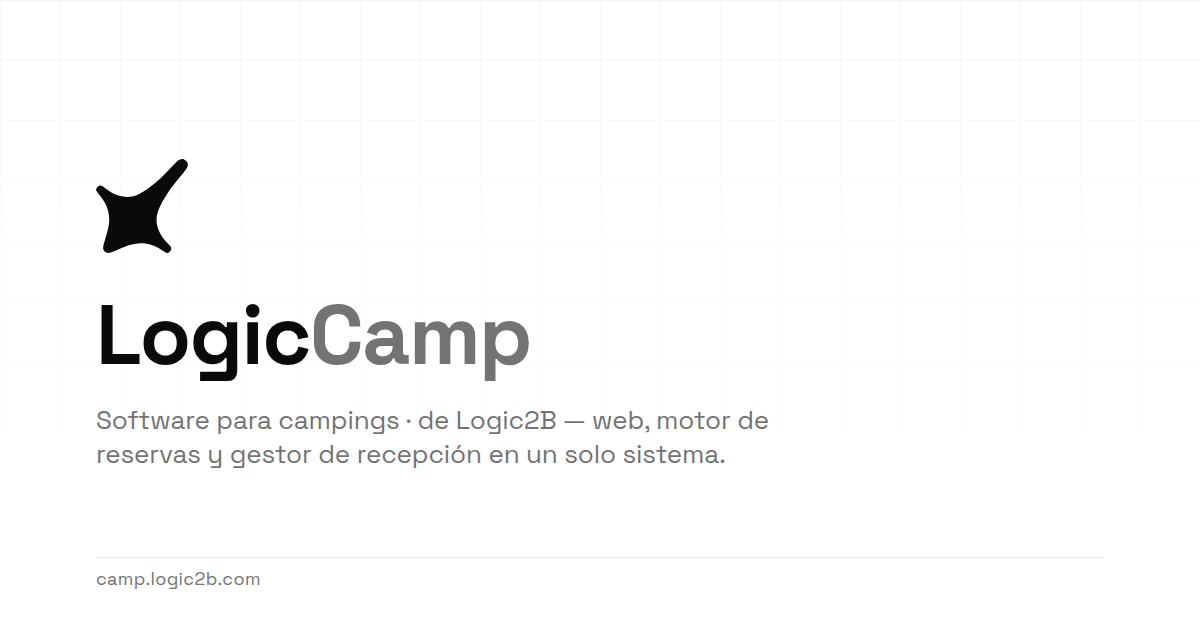
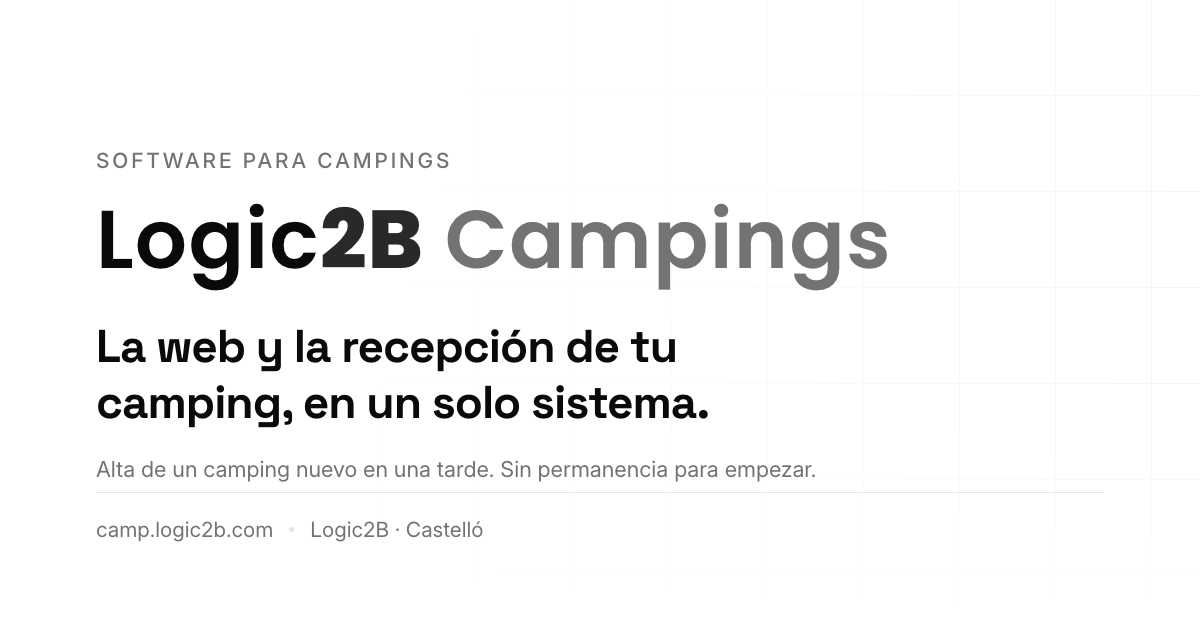
Sesión 61: la landing fuera de la landing — la tarjeta al compartir y lo que lee Google
Objetivo elegido con el criterio de CONTINUA (lo que el cliente ve) sobre el
mandato de marketing de la 60: lo que un prospecto ve de la landing SIN estar
en ella. La OG image seguía diciendo «LogicCamp» con el isotipo — una marca que
desde la 59 no existe en ninguna pantalla: compartir el enlace enseñaba un
producto distinto del que se abre al clicar.

La tarjeta, regenerada y esta vez con generador commiteado. La de C5.2 se
renderizó con un script de sesión que no se guardó, así que rehacerla ha
costado reconstruirlo entero — el coste exacto que la regla de no multiplicar
trabajo existe para evitar. Ahora apps/site/scripts/og.mjs
(pnpm --filter @logic-camp/site og): un cambio de marca es un comando. Dos
tarjetas, una por idioma, con el texto del mismo content/{lang}.json que pinta
la landing.

Los colores NO se copian al generador: se leen del :root de
packages/ui/src/theme.css. Empezaron como literales y era la misma deuda en
pequeño. Prueba de que la lectura es fiel: el PNG sale byte a byte idéntico.
Trampa por el camino: cortar el CSS por indexOf('.dark') corta en un comentario
36 líneas antes del selector y deja fuera medio :root — se corta por
/^\.dark\s*\{/m.

Composición: sin isotipo, el hueco lo ocupa jerarquía real (kicker · wordmark ·
titular del héroe · promesa de alta · pie). La primera versión se rechazó
mirando el PNG: tercio central hueco y la rejilla visible justo en la mitad sin
contenido, que se leía como descuido en vez de como aire.
[…]

diff --git a/docs/BACKLOG.md b/docs/BACKLOG.md
@@ -47,7 +47,7 @@ Ideas y peticiones que NO son de la fase en curso. Aquí, no al código. Formato
 - ~~[B1] Las 2 pantallas que quedan para cerrar la adopción del DS: **Parte** y **Ajustes** (formulario y detalle; Ajustes ya usa `Input`/`Label`/`Switch`, así que le queda poco) — 2026-07-25. **Informes e Inventario hechas en la sesión 58** (9 de 11): en Informes el `Tile` a mano pasa a `Card` y el defecto del titular de dos líneas que hundía su cifra se arregla **reservando la altura de dos líneas de rótulo en todas las tarjetas** (`min-h-[2lh]` en el `CardDescription`) — estructural, no de copy: con i18n el alemán partirá titulares que el español no parte, y la reserva vale para cualquier idioma. En Inventario el encargo decía «tiles → Card» pero los chips **ya eran** `Button` del DS con `AlertDialog`; lo que faltaba era estructura — secciones planas que dejaban medio lienzo vacío («Mobil-home · 4» = 4 chips y una fila desierta) → fichas `Card` por tipo en **rejilla de 2 columnas** (`lg:grid-cols-2`), los 8 tipos a la vista sin scroll a 1100×800. Regla confirmada por sexta vez: mirar la pantalla antes de tocar el markup. **Llegadas hecha en la sesión 56** (7 de 11): arrastraba el `auto` **por partida doble** (las dos columnas de los extremos) más una tercera desalineación propia —la fila sin botón de recepción medía 109px más que sus vecinas—, y la peor de todas, el corte de las dos listas por `lg:` cuando quien las estrecha es la ficha de reserva (titular de 45px con el panel abierto) → `@container`. **Cabecera de columnas descartada con motivo**: la fila son 3 columnas en dos renglones, y tres rótulos nombrarían la mitad de los seis valores; las cinco claves `dia.*` muertas se borraron con la razón escrita al lado. Regla que se confirma otra vez: **mirar cada pantalla antes de tocarla**, que el hallazgo no está en el markup~~ → **hecho 2026-07-29 (sesión 59): B1 queda 11/11 y se cierra.** Y por séptima vez, mirar la pantalla cambió el trabajo: en **Ajustes** el defecto no era de markup sino de **comportamiento** — el bloque de notificaciones vivía DENTRO del `<form>` de datos del camping, así que la sumisión implícita de sus `<input>` (que va a `input.form`) hacía que **Intro en «Buzón interno» guardara nombre/zona/moneda**, o nada si esos tres no estaban sucios: el correo escrito se perdía en silencio. Dos `<form>`, dos submits, y clave de toast propia para no decir «Ajustes guardados» al guardar notificaciones. Verificado con Intro real: un solo PATCH y es el de `modules.notifications`. Lo visual: tres `Card` en rejilla de 2 columnas (`max-w-xl` dejaba dos tercios del lienzo vacíos a 1366px), las dos fichas cortas apiladas en UNA celda —como celdas hermanas la fila la estiraba «Notificaciones» y quedaban 200px muertos— y la ficha de solo lectura «Nivel e idiomas» fuera de entre el último campo editable y el botón (ahí parecía editable). En **Parte**, medido: la forma de pago quedaba a **810px** de su código de reserva por el `justify-between` a lo ancho → columna de ancho fijo (11rem) con cabecera y la rejilla en UNA constante compartida (regla de la 55) → las 8 filas y la cabecera en **x=819 exacto**; estados vacíos a `EmptyState`.
 - [B1] Los otros dos campos de fecha crudos del dashboard: `Planning.tsx` (`border-foreground/20 bg-background`) y `Parte.tsx` (`border-border bg-transparent`) siguen siendo `<input>` a mano con **tres pieles distintas** entre sí y sin el anillo de foco del DS; el de Planning va además **sin nombre accesible**. Llegadas ya pasó a `Input` en la sesión 56 — 2026-07-27 **Parte hecho 2026-07-29 (sesión 59)**: pasa al `Input` del DS (medido antes de tocar — 29,5px contra los 28px de sus vecinos, y sin anillo de foco; el anillo verificado después con Tab de verdad, que `.focus()` no dispara `:focus-visible`). **Queda solo `Planning.tsx`**, que además sigue sin nombre accesible.
 - [marca] **El favicon sigue siendo el isotipo** tras el cambio de logo de la sesión 59 (`/logo-mark.svg`): un wordmark no funciona a 32px, así que hoy la pestaña enseña una marca que ya no aparece en ninguna pantalla. O se acepta como está (defendible: el isotipo sigue firmando el pie del tenant) o hace falta un favicon derivado del wordmark — «2B» en Poppins 800 sobre fondo de marca sería lo coherente con la variante `compact` de la sidebar plegada. **Decisión de Andreu**, no de una sesión autónoma — 2026-07-29
-- [marca] **`docs/brand/` y el OG image siguen con el isotipo como logo del producto**: `BRAND.md` §2 ya está reescrito (sesión 59), pero la OG image de la landing (1200×630, generada en C5.2) lleva el isotipo, y quien la vea al compartir el enlace verá una marca distinta de la de la cabecera. Regenerarla con el wordmark — 2026-07-29
+- ~~[marca] **`docs/brand/` y el OG image siguen con el isotipo como logo del producto**~~ → **hecho 2026-07-30 (sesión 61)**: dos tarjetas (`og.png` / `og-en.png`, una por idioma) con el wordmark «Logic2B Campings», sin isotipo, y el texto sacado del mismo `content/{lang}.json` que pinta la landing. Lo que de verdad cierra el ítem es que ahora hay **generador commiteado** — `apps/site/scripts/og.mjs`, `pnpm --filter @logic-camp/site og` —: la tarjeta de C5.2 se hizo con un script de sesión que no se guardó, y por eso este ítem existió. Los colores se **leen** del `:root` de `packages/ui/src/theme.css` en vez de copiarse (verificado: el PNG sale byte a byte idéntico). Queda vivo solo lo de `docs/brand/`, abajo
 - [dashboard] **La pantalla «Parte de viajeros» es un muro de permisos para el visitante de la demo** y no lo anuncia hasta que la abres: el rol `demo` se estrella en los 4 GET elevados (decisión **aceptada**, ADR 0029 §1 — no es un defecto). Lo que sí chirría es que la **sidebar enseñe el enlace a todo el mundo**, incluida la recepcionista real de un camping, que tampoco alcanza `manager`. O el enlace se oculta por rol, o el muro deja de ser un error genérico y explica «esto es de gerencia» desde el propio menú. Afecta a la demo comercial: el enlace está a la vista y no lleva a ningún sitio — 2026-07-29
 - [C4] La ficha de reserva (`BookingPanel`, `w-[360px] shrink-0`) a 375px deja **15px** a la lista que hay detrás: en móvil debería ser hoja completa (`Sheet`), no panel lateral. Detectado midiendo Llegadas en la sesión 56; afecta a todas las pantallas que abren ficha — 2026-07-27
 - [seed] **Ninguna de las 83 unidades está fuera de servicio**: la cabecera de Inventario explica qué significa estar de baja y el chip tiene su piel `destructiveOutline` con tachado, pero el estado no se ve nunca en la demo — mismo patrón "válido pero falso" de las sesiones 53–57 (la pantalla existe y no enseña lo que la justifica). Una o dos unidades de baja con motivo verosímil (avería, reforma) enseñarían además el efecto en planning/plano. Ojo: dar de baja resta cupo — hay que plantarlas donde no rompan el relleno por curva ni los invariantes — 2026-07-28
@@ -88,3 +88,5 @@ Ideas y peticiones que NO son de la fase en curso. Aquí, no al código. Formato
 - [D] **Frente D — Escaparate: portfolio de 12 demos de campings** (4 × nivel 1 micro + 4 × nivel 2 solicitudes + 4 × nivel 3 con pago — **solo campings**: la primera redacción incluía rural/hostal/hotel y Andreu la rectificó el mismo día; esos verticales serán un **clon del proyecto** cuando toque). Documentado súper detallado en `docs/FRENTE-D-ESCAPARATE.md` (nombres, temas, qué demuestra cada una, fases D0–D6). **NO empezar sin el ADR D0 con Andreu** y no antes de que el backend demo esté muy avanzado — 2026-07-28
 - [D5] **Landing de venta: sensación de escalabilidad** — galería del portfolio ("Un motor, doce marcas"), franja de cifras (1 código · N alojamientos · D1 aislada · alta en una tarde), recorrido "¿cuántas plazas tienes?" → nivel + demo parecida. La franja de cifras es verdad HOY y no depende del portfolio (versión temprana posible); la galería, solo cuando haya ≥3 demos clicables — nunca prometer lo que no se clica. Detalle en `FRENTE-D-ESCAPARATE.md` §3 — 2026-07-28
 - [D6] **Creatividades de campaña de muestra (Ads display Google/Meta + búsqueda)**: maquetas fake (assets estáticos en `apps/site`, sin cuentas reales ni píxeles) con la marca de las demos, formatos estándar (300×250, 728×90, 160×600, 320×100; 1080×1080, 1080×1920), UTM de mentira que clican al funnel de su demo — para recorrer anuncio → web → reserva en una presentación. Declaradas como muestra en la propia pieza (honestidad comercial). El argumento de fondo: cada reserva por campaña propia es una reserva sin comisión de OTA. Detalle en `FRENTE-D-ESCAPARATE.md` §4 — 2026-07-28
+- [marca] **`docs/brand/` sigue describiendo el isotipo como logo del producto** (resto del ítem cerrado en la 61): la OG image ya está, pero el directorio de marca no se ha revisado desde el cambio de logo — 2026-07-30
+- [seo] **`BreadcrumbList` en las guías**: el sitemap declara las 25 páginas de documentación como "la superficie de búsqueda larga del producto" (cómo hacer el check-in en un camping…), y son las únicas con jerarquía real (guía → página). La landing ya tiene `Organization`/`SoftwareApplication`/`FAQPage` desde la 61; las guías no tienen ninguno. Barato: va en `Docs.astro`, que las sirve todas — 2026-07-30

diff --git a/docs/SIGUIENTE-SESION.md b/docs/SIGUIENTE-SESION.md
@@ -1,14 +1,14 @@
 # Prompt para la siguiente sesión — protocolo CONTINUA activo
 
-> Reescrito al cerrar la sesión 60 (2026-07-30, con Andreu). Tres mandatos
-> suyos: **el header de la landing a los raíles de `logic2b-norte`** (1440px /
-> gutter 24→32 / 50px / botones 10px), **prioridad a marketing** → la landing
-> gana la sección de **escalabilidad** (franja de cifras) y la **escalera como
-> recorrido** («¿cuántas parcelas tienes?») — la versión temprana de D5.2 que
-> el Frente D dejaba adelantar — y **la landing queda en DOS idiomas (es/en)**:
-> vende al dueño, no al campista; los seis idiomas siguen en la web de tenant
-> (`apps/web`), que no se toca. Cuando la próxima sesión termine, **reescribe
-> este fichero** con el prompt de la siguiente.
+> Reescrito al cerrar la sesión 61 (2026-07-30). Dos sesiones el mismo día, las
+> dos de marketing. La **60** (con Andreu): header a los raíles de
+> `logic2b-norte` (1440px / gutter 24→32 / 50px / botones 10px), la landing
+> gana **escalabilidad** (franja de cifras) y la **escalera como recorrido**
+> —D5.2 temprana— y queda en **dos idiomas (es/en)**: vende al dueño, no al
+> campista. La **61** (autónoma): **la landing fuera de la landing** — OG image
+> regenerada con el wordmark (una por idioma, **con generador commiteado**) y
+> los primeros datos estructurados del sitio. Cuando la próxima sesión termine,
+> **reescribe este fichero** con el prompt de la siguiente.
 
 ---
 
@@ -18,19 +18,23 @@ Las sesiones son **autónomas**: basta "continúa con el desarrollo de este
 proyecto" y se ejecuta `docs/CONTINUA.md` completo — **incluido el cierre en
 `main` también desde cloud** (permiso permanente de Andreu, 2026-07-25). El MVP
 es una **demo fake** — nada de servicios externos reales. Lo último cerrado:
-**la landing vende escalabilidad (D5.2 temprana)** y el header en los raíles
-de norte; antes, B1 11/11 y el logo «Logic2B Campings».
+**la landing vende escalabilidad (D5.2 temprana)**, el header en los raíles de
+norte, los dos idiomas y **la tarjeta al compartir + los datos estructurados**;
+antes, B1 11/11 y el logo «Logic2B Campings».
 
 ## ⚠ Lo primero de la próxima sesión
 
-1. **La deuda de despliegue son ya TRES sesiones (58, 59 y 60), y las dos
-   últimas SE VEN.** El logo (59) y ahora **la landing de venta entera** (60:
-   header nuevo, sección de escalabilidad, recorrido de niveles) — lo primero
-   que ve un prospecto en `camp.logic2b.com`. Un
-   `pnpm --filter @logic-camp/api deploy:demo` normal — sin esquema, sin
-   datos. Es el primer paso natural de la próxima sesión **local** (necesita
+1. **La deuda de despliegue son ya CUATRO sesiones (58–61), y las tres últimas
+   SE VEN.** El logo (59), **la landing de venta entera** (60: header nuevo,
+   escalabilidad, recorrido de niveles) y **la tarjeta al compartir el enlace**
+   (61) — hasta que se despliegue, `camp.logic2b.com` compartido en WhatsApp o
+   LinkedIn **sigue enseñando «LogicCamp» con el isotipo**, una marca que ya no
+   existe. Un `pnpm --filter @logic-camp/api deploy:demo` normal — sin esquema,
+   sin datos. Es el primer paso natural de la próxima sesión **local** (necesita
    credenciales de Cloudflare: si la sesión es autónoma, dejarlo anotado otra
-   vez y elegir otro objetivo).
+   vez y elegir otro objetivo). Tras desplegar, conviene pasar la URL por el
+   depurador de enlaces de la red donde se vaya a compartir: **las tarjetas se
+   cachean** y la vieja puede seguir saliendo hasta que se refresque.
 2. **ADR 0030 sigue en `propuesto`** y ya no queda nada que vigilar: sus dos
    comprobaciones están hechas (reset a mano en 1,2 s en la 58; **cron de las
    3:00 confirmado en la 59** — las reservas remotas traen el `createdAt` del
@@ -67,10 +71,11 @@ continúa con el desarrollo de este proyecto
   cabecera de Inventario explica no se ve nunca — y de paso se vería en planning
   y plano. Ojo: dar de baja resta cupo; plantarlas sin romper el relleno ni los
   invariantes.
-- **[marca] Rematar el cambio de logo** (nuevo, 59): la **OG image** de la
-  landing sigue llevando el isotipo, así que al compartir el enlace se ve una
-  marca distinta de la de la cabecera. Regenerarla con el wordmark. El
-  **favicon** es decisión de Andreu, no de sesión autónoma (ver BACKLOG).
+- **[seo] `BreadcrumbList` en las guías** (nuevo, 61): las 25 páginas de
+  documentación son, según el propio comentario del sitemap, "la superficie de
+  búsqueda larga del producto", y son las únicas con jerarquía real (guía →
+  página). La landing ya tiene `Organization`/`SoftwareApplication`/`FAQPage`;
+  las guías no tienen ninguno. Va en `Docs.astro`, que las sirve todas.
 - **[dashboard] El enlace muerto de la sidebar** (nuevo, 59): «Parte de
   viajeros» es un muro de permisos para el visitante de la demo **y para
   cualquier recepcionista real** — el muro es decisión aceptada (ADR 0029), pero
@@ -103,7 +108,17 @@ continúa con el desarrollo de este proyecto
 - Fase 9 alta real (`new:camping --apply`), reseed remoto `--apply`.
 - Traducciones de guías: descartadas con motivo (ADR 0025 §3).
 
-## Trampas conocidas (heredadas + las nuevas de las sesiones 59–60)
+## Trampas conocidas (heredadas + las nuevas de las sesiones 59–61)
+
+- **NUEVA (61) — un asset de marca sin generador commiteado es deuda garantizada.**
+  La OG de C5.2 se renderizó con un script de sesión que no se guardó: al
+  cambiar el logo, rehacerla costó reconstruirlo entero. Ahora
+  `apps/site/scripts/og.mjs` (`pnpm --filter @logic-camp/site og`) y los colores
+  se **leen** del `:root` del DS, no se copian.
+- **NUEVA (61) — cortar un CSS por `indexOf('.dark')` corta en un comentario.**
+  `theme.css` menciona `.dark` en un comentario 36 líneas antes del selector, así
+  que la mitad del `:root` quedaba fuera del corte y el token no aparecía. Se
+  corta por el selector: `/^\.dark\s*\{/m`.
 
 - `git fetch` y comparar con origin/main ANTES de trabajar. El `main` local del
   contenedor suele venir viejo: `git reset --hard origin/main` antes del merge.

diff --git a/PROGRESS.md b/PROGRESS.md
@@ -59,6 +59,24 @@ Diario de sesiones. Se actualiza al cerrar cada sesión con `/session-close`. La
 
 **Pendiente que deja**: la deuda de despliegue ya son **TRES sesiones (58, 59 y 60)** y esta es la más visible — la landing de venta entera. La galería del portfolio sigue esperando ≥3 demos (gate del ADR D0 intacto).
 
+### Sesión 61 — 2026-07-30 · **La landing fuera de la landing: la tarjeta al compartir y lo que lee Google**
+
+**Objetivo elegido** (CONTINUA, prioridad "lo que el cliente ve" + el mandato de marketing de la 60): lo que un prospecto ve de la landing **sin estar en la landing** — al compartir el enlace y en los resultados de búsqueda. Motivo de urgencia: la OG image seguía diciendo **«LogicCamp» con el isotipo**, una marca que desde la 59 **no existe en ninguna pantalla**; compartir el enlace enseñaba un producto distinto del que se abre al clicar.
+
+**La OG regenerada, y esta vez con generador commiteado.** La tarjeta de C5.2 se renderizó con un script de sesión que no se guardó, así que rehacerla ha costado reconstruir el generador entero — exactamente el coste que la regla de "no multiplicar trabajo" existe para evitar. Ahora vive en `apps/site/scripts/og.mjs` (`pnpm --filter @logic-camp/site og`): un cambio de marca es **un comando**. Dos tarjetas, **una por idioma** (`og.png` / `og-en.png`), con el texto sacado del **mismo `content/{lang}.json`** que pinta la landing — compartir el enlace en inglés y recibir una tarjeta en español es el detalle que delata a un producto descuidado.
+
+**Los colores NO se copian al generador: se leen del `:root` de `packages/ui/src/theme.css`.** Empezaron como literales y era la misma deuda en pequeño (la marca cambia en el DS y no en la tarjeta). Prueba de que la lectura es fiel: al sustituir los literales por la lectura, el PNG salió **byte a byte idéntico** (mismo `shasum`). Trampa encontrada al hacerlo: cortar el CSS por `indexOf('.dark')` corta **en un comentario de la línea 42** que menciona `.dark`, dejando fuera medio `:root` — se corta por el selector (`/^\.dark\s*\{/m`).
+
+**Composición**: sin isotipo (retirado en la 59), el hueco que dejaba lo ocupa una jerarquía real — kicker · wordmark «Logic2B Campings» (Poppins 600/800, el mismo lockup del header) · titular del héroe en Space Grotesk · la promesa de alta · pie con dominio. Primera versión rechazada por dos motivos mirando el PNG: el tercio central quedaba hueco y **la rejilla se veía justo en la mitad sin contenido** (el velo la apagaba solo bajo el texto), así que el lado vacío se leía como un descuido en vez de como aire.
+
+**Datos estructurados, que no había ninguno.** `Organization` + `SoftwareApplication` en el layout (todas las páginas) y **`FAQPage` en la landing**, construida desde el **mismo array** que pinta los `<details>` — Google exige que la respuesta esté visible, lo está, y si alguien borra la sección el marcado se va con ella. Escrito con una regla explícita: **cero `aggregateRating` y cero reseñas** (no existen, inventarlas es mentir y Google lo penaliza) y **sin `offers`** (los precios son a medida; declararlos exigiría un número que no existe). Un fallo propio corregido al verificar: `applicationSubCategory` acababa valiendo «Logic2B Campings» —el nombre, no una categoría— y se elimina: un valor incorrecto es peor que ninguno.
+
+**Meta social completa**: `og:site_name`, `og:locale` + `og:locale:alternate`, `og:image:width/height` (sin ellos algunas redes recortan a cuadrado en vez de servir la tarjeta ancha), `og:image:alt` y `twitter:image:alt`.
+
+**Verificado** — `pnpm check` **45/45 verde**. En navegador y **en el HTML construido** (no solo en dev): los tres tipos de JSON-LD parsean en es y en en, `/` sirve `og.png` y `/en/` sirve `og-en.png` (200, `image/png`), 5 preguntas en el marcado y 5 visibles en la página.
+
+**Pendiente que deja**: la deuda de despliegue sigue siendo de tres sesiones (58–60) y suma esta. Sin desplegar, la tarjeta vieja seguirá saliendo al compartir `camp.logic2b.com`.
+
 ### Sesión 59 — 2026-07-29 · **B1 cerrado (11/11) — el formulario que guardaba el otro formulario** · y, a petición de Andreu, **el logo pasa a «Logic2B Campings»**
 
 **Objetivo**: `[B1]` Parte y Ajustes, las dos pantallas que faltaban para cerrar la adopción del DS. Elegido del prompt de la 58 (dashboard = lo que el cliente ve en la demo, sin credenciales).
